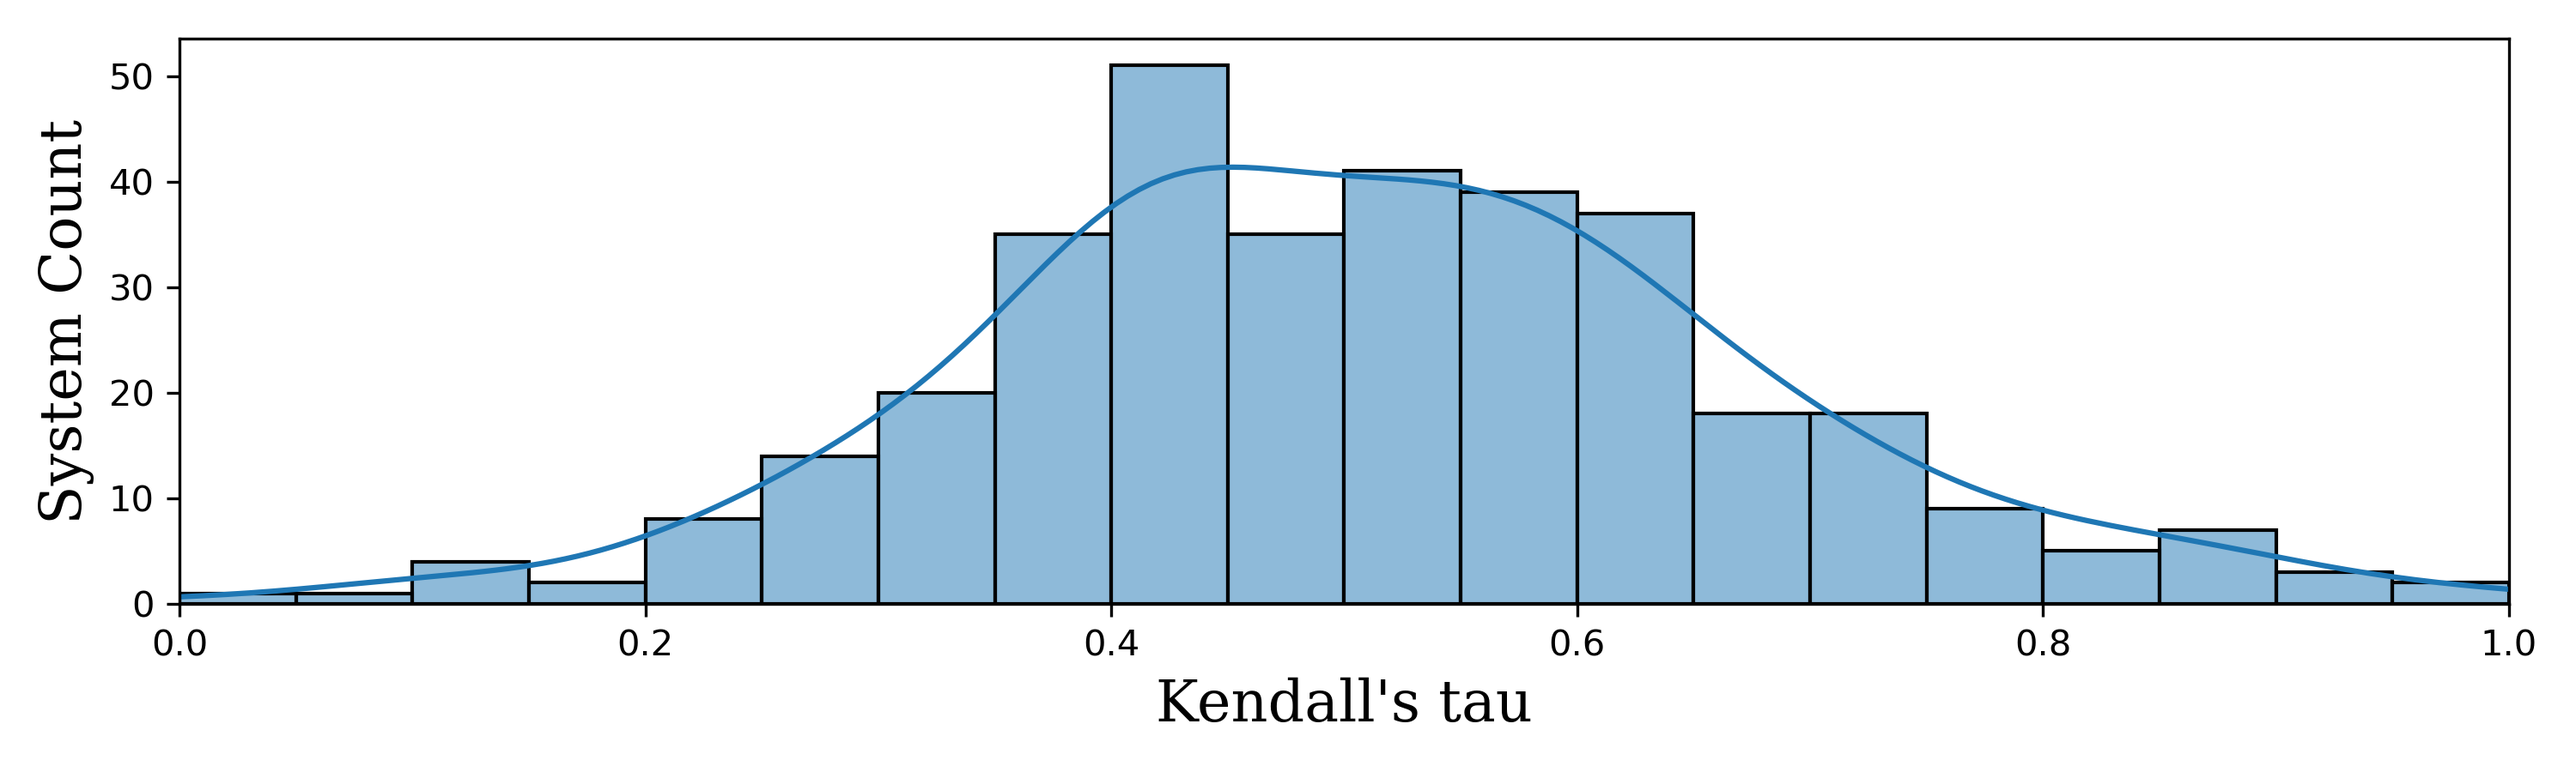
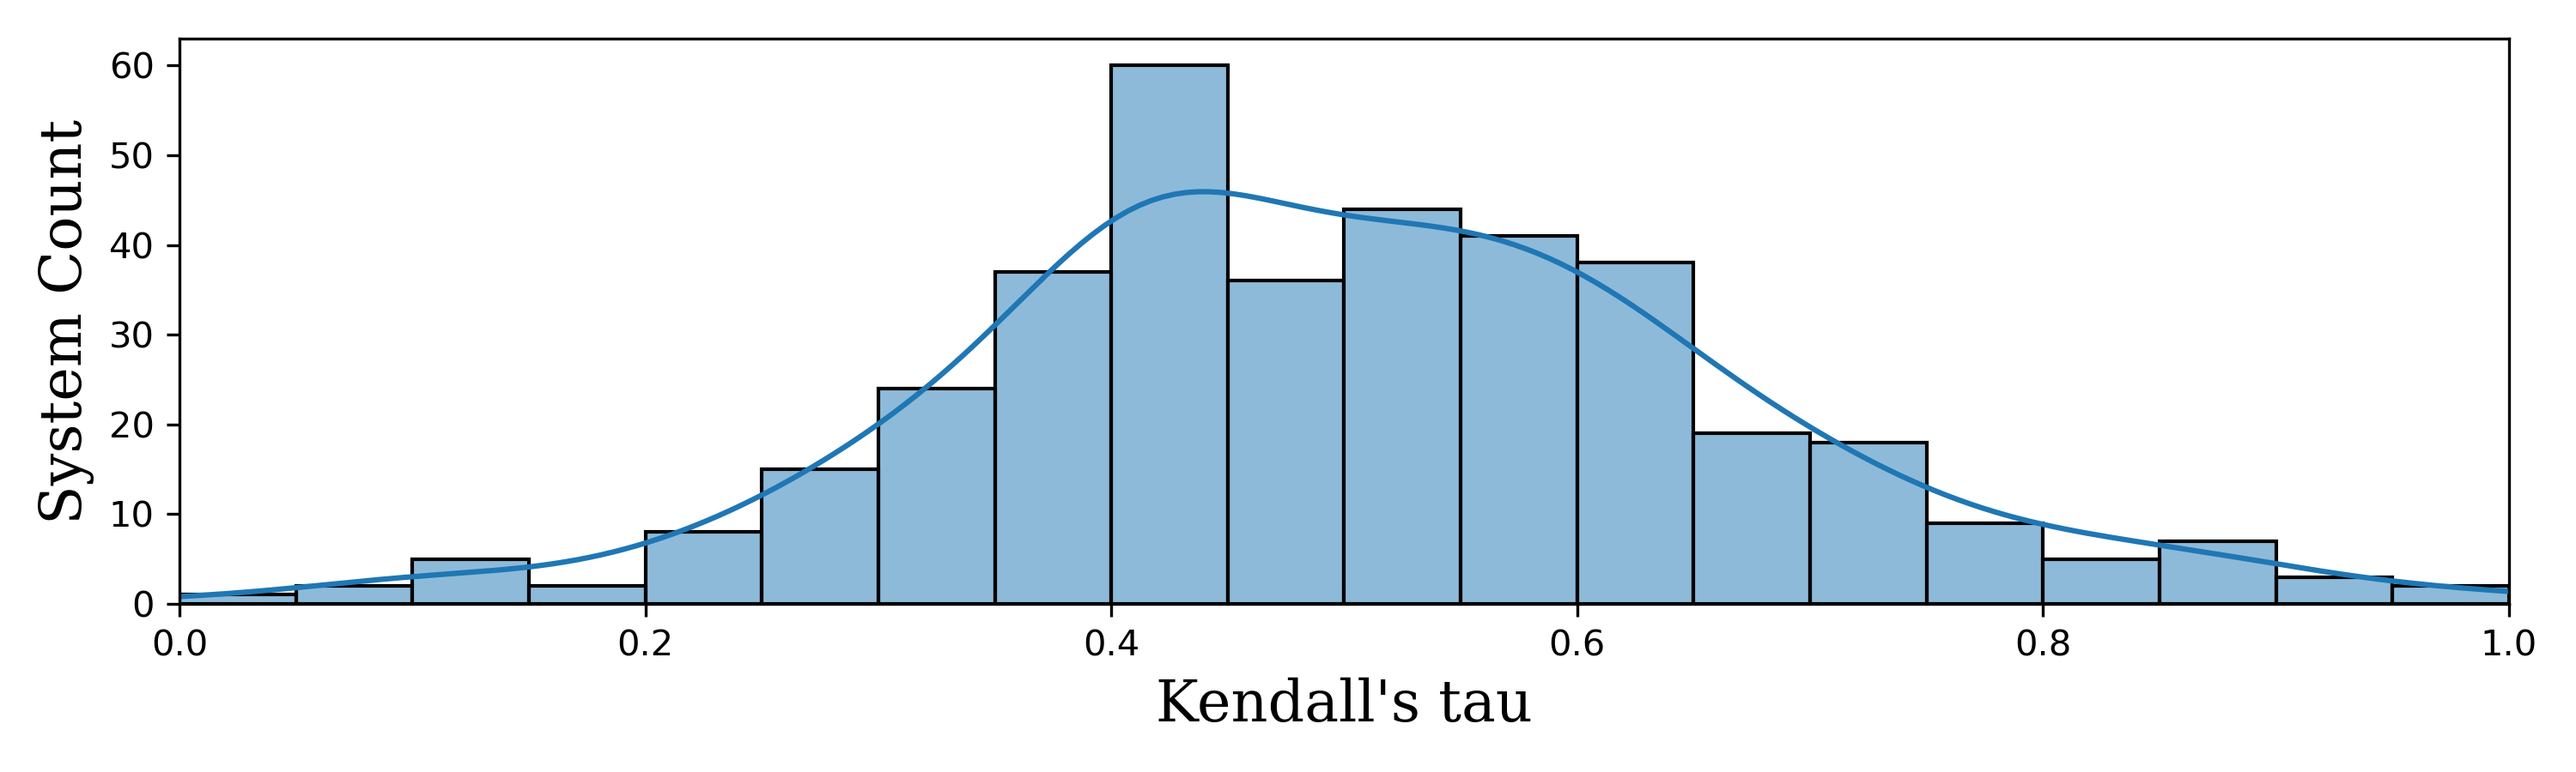
add more cases

diff --git a/README.md b/README.md
@@ -32,28 +32,32 @@ For more details, please refer to our [FEP Open Challenge introduction](https://
 
 
 ## Summary of Benchmark Results
-**Total Systems**: 350  
-**Total Ligands**: 5836
+**Total Systems**: 376  
+**Total Ligands**: 6341
 ![RMSE Distribution](rmse_distribution.png)
 ![Kendall's tau Distribution](tau_distribution.png)
 | Series | Target | N_Ligands | RMSE (kcal/mol) | R² | Kendall's tau | Description |
 |---|---|---|---|---|---|---|
 | ChEMBL | ADK | 12 | 1.59 | 0.28 | 0.36 | CHEMBL642224 |
 | ChEMBL | ADK | 27 | 1.48 | 0.48 | 0.41 | CHEMBL643547 |
+| ChEMBL | AHCY | 14 | 1.34 | 0.23 | 0.30 | CHEMBL3294635 |
 | ChEMBL | AKR1C3 | 11 | 0.90 | 0.59 | 0.67 | CHEMBL4428988 |
 | ChEMBL | ALDH2 | 9 | 1.01 | 0.30 | 0.65 | CHEMBL3130565 |
 | ChEMBL | ALDH2 | 12 | 1.23 | 0.26 | 0.43 | CHEMBL641008 |
 | ChEMBL | AMPD2 | 14 | 1.36 | 0.54 | 0.46 | CHEMBL5240593 |
 | ChEMBL | AR | 25 | 1.39 | 0.36 | 0.40 | CHEMBL4411915 |
 | ChEMBL | AR | 9 | 1.37 | 0.31 | 0.28 | CHEMBL896869 |
+| ChEMBL | AURKA | 30 | 0.80 | 0.32 | 0.15 | CHEMBL1656337 |
 | ChEMBL | AURKA | 7 | 1.12 | 0.79 | 0.59 | CHEMBL2382841 |
 | ChEMBL | AURKA | 10 | 1.49 | 0.54 | 0.63 | CHEMBL912713 |
 | ChEMBL | BACE1 | 9 | 0.79 | 0.57 | 0.83 | CHEMBL2015090 |
 | ChEMBL | BACE1 | 13 | 1.71 | 0.25 | 0.38 | CHEMBL2155063 |
 | ChEMBL | BACE1 | 10 | 0.96 | 0.66 | 0.73 | CHEMBL2182237 |
+| ChEMBL | BACE1 | 9 | 1.23 | 0.54 | 0.50 | CHEMBL2183861 |
 | ChEMBL | BACE1 | 23 | 0.85 | 0.33 | 0.39 | CHEMBL2185271 |
 | ChEMBL | BACE1 | 10 | 0.96 | 0.89 | 0.91 | CHEMBL2352381 |
 | ChEMBL | BACE1 | 17 | 1.38 | 0.25 | 0.29 | CHEMBL2384472 |
+| ChEMBL | BACE1 | 23 | 1.11 | 0.19 | 0.34 | CHEMBL2404725 |
 | ChEMBL | BACE1 | 15 | 1.29 | 0.58 | 0.73 | CHEMBL3635177 |
 | ChEMBL | BACE1 | 19 | 0.94 | 0.51 | 0.40 | CHEMBL3801550 |
 | ChEMBL | BACE1 | 12 | 1.35 | 0.33 | 0.43 | CHEMBL3868309 |
@@ -69,6 +73,7 @@ For more details, please refer to our [FEP Open Challenge introduction](https://
 | ChEMBL | BRD4 | 109 | 0.71 | 0.47 | 0.52 | CHEMBL3706176 |
 | ChEMBL | BRD4 | 29 | 1.08 | 0.63 | 0.57 | CHEMBL4020217 |
 | ChEMBL | BRD4 | 18 | 1.26 | 0.49 | 0.32 | CHEMBL4038392 |
+| ChEMBL | BRD4 | 15 | 1.11 | 0.28 | 0.31 | CHEMBL4193809 |
 | ChEMBL | BRD4 | 21 | 1.16 | 0.29 | 0.31 | CHEMBL4200424 |
 | ChEMBL | BRD4 | 28 | 1.18 | 0.26 | 0.22 | CHEMBL4308744 |
 | ChEMBL | BRD4 | 25 | 0.73 | 0.36 | 0.45 | CHEMBL4310223 |
@@ -76,11 +81,13 @@ For more details, please refer to our [FEP Open Challenge introduction](https://
 | ChEMBL | BRD4 | 24 | 0.66 | 0.40 | 0.53 | CHEMBL5037307 |
 | ChEMBL | BRD4 | 26 | 0.89 | 0.47 | 0.50 | CHEMBL5044553 |
 | ChEMBL | BRD4 | 36 | 0.76 | 0.49 | 0.50 | CHEMBL5137805 |
+| ChEMBL | BRDT | 17 | 0.51 | 0.61 | 0.51 | CHEMBL4200426 |
 | ChEMBL | BRPF1 | 17 | 0.65 | 0.60 | 0.62 | CHEMBL3385101 |
 | ChEMBL | BTK | 14 | 1.50 | 0.80 | 0.69 | CHEMBL3375466 |
 | ChEMBL | BTK | 18 | 1.66 | 0.65 | 0.59 | CHEMBL4057948 |
 | ChEMBL | BTK | 24 | 0.86 | 0.57 | 0.56 | CHEMBL4201924 |
 | ChEMBL | BTK | 15 | 0.43 | 0.96 | 0.89 | CHEMBL5031679 |
+| ChEMBL | CALCRL | 30 | 0.81 | 0.47 | 0.47 | CHEMBL1772121 |
 | ChEMBL | CAMKK1 | 16 | 1.87 | 0.18 | 0.23 | CHEMBL4827617 |
 | ChEMBL | CDC7 | 27 | 1.43 | 0.26 | 0.32 | CHEMBL944978 |
 | ChEMBL | CDK2 | 18 | 1.05 | 0.39 | 0.47 | CHEMBL1002021 |
@@ -126,6 +133,7 @@ For more details, please refer to our [FEP Open Challenge introduction](https://
 | ChEMBL | DYRK1A | 18 | 1.77 | 0.69 | 0.63 | CHEMBL5034566 |
 | ChEMBL | DYRK1B | 12 | 0.92 | 0.37 | 0.49 | CHEMBL3424978 |
 | ChEMBL | DYRK2 | 19 | 0.81 | 0.22 | 0.30 | CHEMBL5042808 |
+| ChEMBL | EED | 30 | 1.23 | 0.28 | 0.41 | CHEMBL4007108 |
 | ChEMBL | EED | 13 | 1.20 | 0.26 | 0.36 | CHEMBL4020039 |
 | ChEMBL | EED | 14 | 1.65 | 0.21 | 0.38 | CHEMBL4020042 |
 | ChEMBL | EGFR | 14 | 0.80 | 0.29 | 0.41 | CHEMBL1935838 |
@@ -148,12 +156,15 @@ For more details, please refer to our [FEP Open Challenge introduction](https://
 | ChEMBL | F10 | 14 | 1.13 | 0.63 | 0.67 | CHEMBL661585 |
 | ChEMBL | F10 | 13 | 0.85 | 0.41 | 0.51 | CHEMBL661586 |
 | ChEMBL | F10 | 28 | 1.19 | 0.50 | 0.53 | CHEMBL661794 |
+| ChEMBL | F10 | 4 | 0.56 | 0.55 | 0.33 | CHEMBL661801 |
 | ChEMBL | F10 | 15 | 0.79 | 0.34 | 0.28 | CHEMBL662878 |
 | ChEMBL | F10 | 18 | 0.80 | 0.22 | 0.41 | CHEMBL827928 |
 | ChEMBL | F10 | 9 | 0.75 | 0.72 | 0.56 | CHEMBL906423 |
 | ChEMBL | F11 | 25 | 1.15 | 0.56 | 0.58 | CHEMBL3129742 |
 | ChEMBL | F2 | 16 | 0.84 | 0.65 | 0.58 | CHEMBL1067528 |
 | ChEMBL | F2 | 14 | 0.78 | 0.82 | 0.71 | CHEMBL4479424 |
+| ChEMBL | F2 | 18 | 1.90 | 0.20 | 0.41 | CHEMBL808337 |
+| ChEMBL | F2 | 18 | 1.45 | 0.23 | 0.43 | CHEMBL813625 |
 | ChEMBL | F2 | 24 | 1.10 | 0.66 | 0.60 | CHEMBL870018 |
 | ChEMBL | F2 | 24 | 1.74 | 0.22 | 0.35 | CHEMBL884569 |
 | ChEMBL | F2 | 9 | 0.44 | 0.96 | 0.89 | CHEMBL924350 |
@@ -173,6 +184,7 @@ For more details, please refer to our [FEP Open Challenge introduction](https://
 | ChEMBL | HSP90AA1 | 18 | 0.98 | 0.29 | 0.11 | CHEMBL3107812 |
 | ChEMBL | HSP90AA1 | 9 | 0.99 | 0.62 | 0.67 | CHEMBL3427922 |
 | ChEMBL | HSP90AA1 | 23 | 1.60 | 0.38 | 0.44 | CHEMBL3885742 |
+| ChEMBL | HSP90AA1 | 7 | 0.74 | 0.34 | 0.59 | CHEMBL4372487 |
 | ChEMBL | HSP90AA1 | 11 | 0.67 | 0.76 | 0.56 | CHEMBL832973 |
 | ChEMBL | IDH2 | 14 | 1.16 | 0.32 | 0.45 | CHEMBL4628662 |
 | ChEMBL | IGF1R | 9 | 1.08 | 0.38 | 0.54 | CHEMBL1045057 |
@@ -180,15 +192,21 @@ For more details, please refer to our [FEP Open Challenge introduction](https://
 | ChEMBL | IRAK4 | 19 | 0.84 | 0.50 | 0.58 | CHEMBL4015947 |
 | ChEMBL | IRAK4 | 14 | 1.26 | 0.48 | 0.53 | CHEMBL4323523 |
 | ChEMBL | JAK1 | 21 | 0.91 | 0.31 | 0.36 | CHEMBL2160360 |
+| ChEMBL | JAK1 | 21 | 1.55 | 0.29 | 0.38 | CHEMBL2395113 |
+| ChEMBL | JAK1 | 31 | 0.63 | 0.72 | 0.66 | CHEMBL2438692 |
 | ChEMBL | JAK1 | 23 | 0.95 | 0.63 | 0.57 | CHEMBL3706193 |
 | ChEMBL | JAK1 | 23 | 0.91 | 0.52 | 0.54 | CHEMBL3784138 |
 | ChEMBL | JAK1 | 14 | 1.37 | 0.32 | 0.23 | CHEMBL4411594 |
 | ChEMBL | JAK1 | 10 | 0.51 | 0.65 | 0.72 | CHEMBL4620434 |
+| ChEMBL | JAK2 | 29 | 0.77 | 0.77 | 0.58 | CHEMBL1685409 |
+| ChEMBL | JAK2 | 13 | 0.69 | 0.47 | 0.40 | CHEMBL2160361 |
+| ChEMBL | JAK2 | 30 | 0.86 | 0.42 | 0.42 | CHEMBL3374493 |
 | ChEMBL | JAK2 | 16 | 1.41 | 0.64 | 0.62 | CHEMBL3404501 |
 | ChEMBL | JAK2 | 15 | 0.84 | 0.42 | 0.45 | CHEMBL3625473 |
 | ChEMBL | JAK2 | 10 | 1.39 | 0.42 | 0.54 | CHEMBL3625512 |
 | ChEMBL | JAK2 | 12 | 0.69 | 0.60 | 0.42 | CHEMBL3627422 |
 | ChEMBL | JAK2 | 9 | 1.30 | 0.77 | 0.56 | CHEMBL4031305 |
+| ChEMBL | JAK2 | 8 | 1.36 | 0.23 | 0.07 | CHEMBL4046590 |
 | ChEMBL | JAK2 | 15 | 0.83 | 0.55 | 0.44 | CHEMBL4150584 |
 | ChEMBL | KDR | 25 | 1.39 | 0.50 | 0.44 | CHEMBL2027406 |
 | ChEMBL | KIF11 | 16 | 0.81 | 0.40 | 0.38 | CHEMBL1023928 |
@@ -215,6 +233,7 @@ For more details, please refer to our [FEP Open Challenge introduction](https://
 | ChEMBL | MAP4K4 | 15 | 0.53 | 0.75 | 0.62 | CHEMBL3755426 |
 | ChEMBL | MAPK10 | 26 | 1.12 | 0.43 | 0.37 | CHEMBL2379720 |
 | ChEMBL | MAPK10 | 17 | 1.49 | 0.40 | 0.43 | CHEMBL3375438 |
+| ChEMBL | MAPK10 | 18 | 0.73 | 0.45 | 0.41 | CHEMBL3578950 |
 | ChEMBL | MAPK14 | 11 | 0.66 | 0.52 | 0.50 | CHEMBL1024853 |
 | ChEMBL | MAPK14 | 24 | 0.84 | 0.58 | 0.60 | CHEMBL1053415 |
 | ChEMBL | MAPK14 | 8 | 0.65 | 0.66 | 0.50 | CHEMBL1101788 |
@@ -227,6 +246,7 @@ For more details, please refer to our [FEP Open Challenge introduction](https://
 | ChEMBL | MAPK14 | 19 | 1.07 | 0.48 | 0.57 | CHEMBL1825475 |
 | ChEMBL | MAPK14 | 21 | 1.80 | 0.29 | 0.31 | CHEMBL1913342 |
 | ChEMBL | MAPK14 | 11 | 1.47 | 0.45 | 0.70 | CHEMBL2061259 |
+| ChEMBL | MAPK14 | 29 | 0.90 | 0.31 | 0.44 | CHEMBL2317232 |
 | ChEMBL | MAPK14 | 17 | 1.79 | 0.39 | 0.53 | CHEMBL732094 |
 | ChEMBL | MAPK14 | 9 | 1.42 | 0.68 | 0.56 | CHEMBL734085 |
 | ChEMBL | MAPK14 | 9 | 1.65 | 0.54 | 0.56 | CHEMBL734088 |
@@ -234,6 +254,7 @@ For more details, please refer to our [FEP Open Challenge introduction](https://
 | ChEMBL | MAPK14 | 5 | 0.96 | 0.57 | 0.40 | CHEMBL983811 |
 | ChEMBL | MAPK14 | 13 | 1.93 | 0.33 | 0.41 | CHEMBL997720 |
 | ChEMBL | MAPK7 | 26 | 0.99 | 0.38 | 0.37 | CHEMBL5166085 |
+| ChEMBL | MAPK8 | 29 | 0.95 | 0.37 | 0.43 | CHEMBL2429340 |
 | ChEMBL | MAPKAPK2 | 17 | 1.33 | 0.19 | 0.40 | CHEMBL1072653 |
 | ChEMBL | MCL1 | 20 | 1.45 | 0.80 | 0.61 | CHEMBL3429294 |
 | ChEMBL | MDM2 | 12 | 0.46 | 0.31 | 0.30 | CHEMBL3705138 |
@@ -294,13 +315,18 @@ For more details, please refer to our [FEP Open Challenge introduction](https://
 | ChEMBL | PLAU | 21 | 1.19 | 0.61 | 0.64 | CHEMBL1026932 |
 | ChEMBL | PLG | 10 | 1.44 | 0.70 | 0.47 | CHEMBL3295545 |
 | ChEMBL | PNMT | 9 | 0.52 | 0.89 | 0.94 | CHEMBL890212 |
+| ChEMBL | PNP | 3 | 1.33 | 0.25 | 0.33 | CHEMBL951777 |
 | ChEMBL | PPARD | 11 | 1.25 | 0.67 | 0.60 | CHEMBL759401 |
 | ChEMBL | PPARG | 28 | 1.29 | 0.70 | 0.63 | CHEMBL1004952 |
 | ChEMBL | PPARG | 9 | 1.15 | 0.23 | 0.42 | CHEMBL830853 |
+| ChEMBL | PPARG | 12 | 1.23 | 0.36 | 0.52 | CHEMBL980390 |
 | ChEMBL | PTGES | 11 | 1.09 | 0.69 | 0.61 | CHEMBL3999537 |
 | ChEMBL | PTK2 | 23 | 1.03 | 0.41 | 0.44 | CHEMBL4832051 |
 | ChEMBL | PTK2 | 23 | 1.26 | 0.86 | 0.73 | CHEMBL962347 |
 | ChEMBL | RAF1 | 11 | 1.47 | 0.53 | 0.44 | CHEMBL3267830 |
+| ChEMBL | RARG | 17 | 1.35 | 0.39 | 0.40 | CHEMBL798022 |
+| ChEMBL | RBP4 | 21 | 1.28 | 0.38 | 0.41 | CHEMBL3380009 |
+| ChEMBL | REN | 29 | 1.40 | 0.67 | 0.61 | CHEMBL1039372 |
 | ChEMBL | REN | 26 | 1.52 | 0.58 | 0.56 | CHEMBL1039373 |
 | ChEMBL | REN | 16 | 1.60 | 0.42 | 0.41 | CHEMBL1054383 |
 | ChEMBL | REN | 23 | 1.18 | 0.62 | 0.43 | CHEMBL3406487 |
